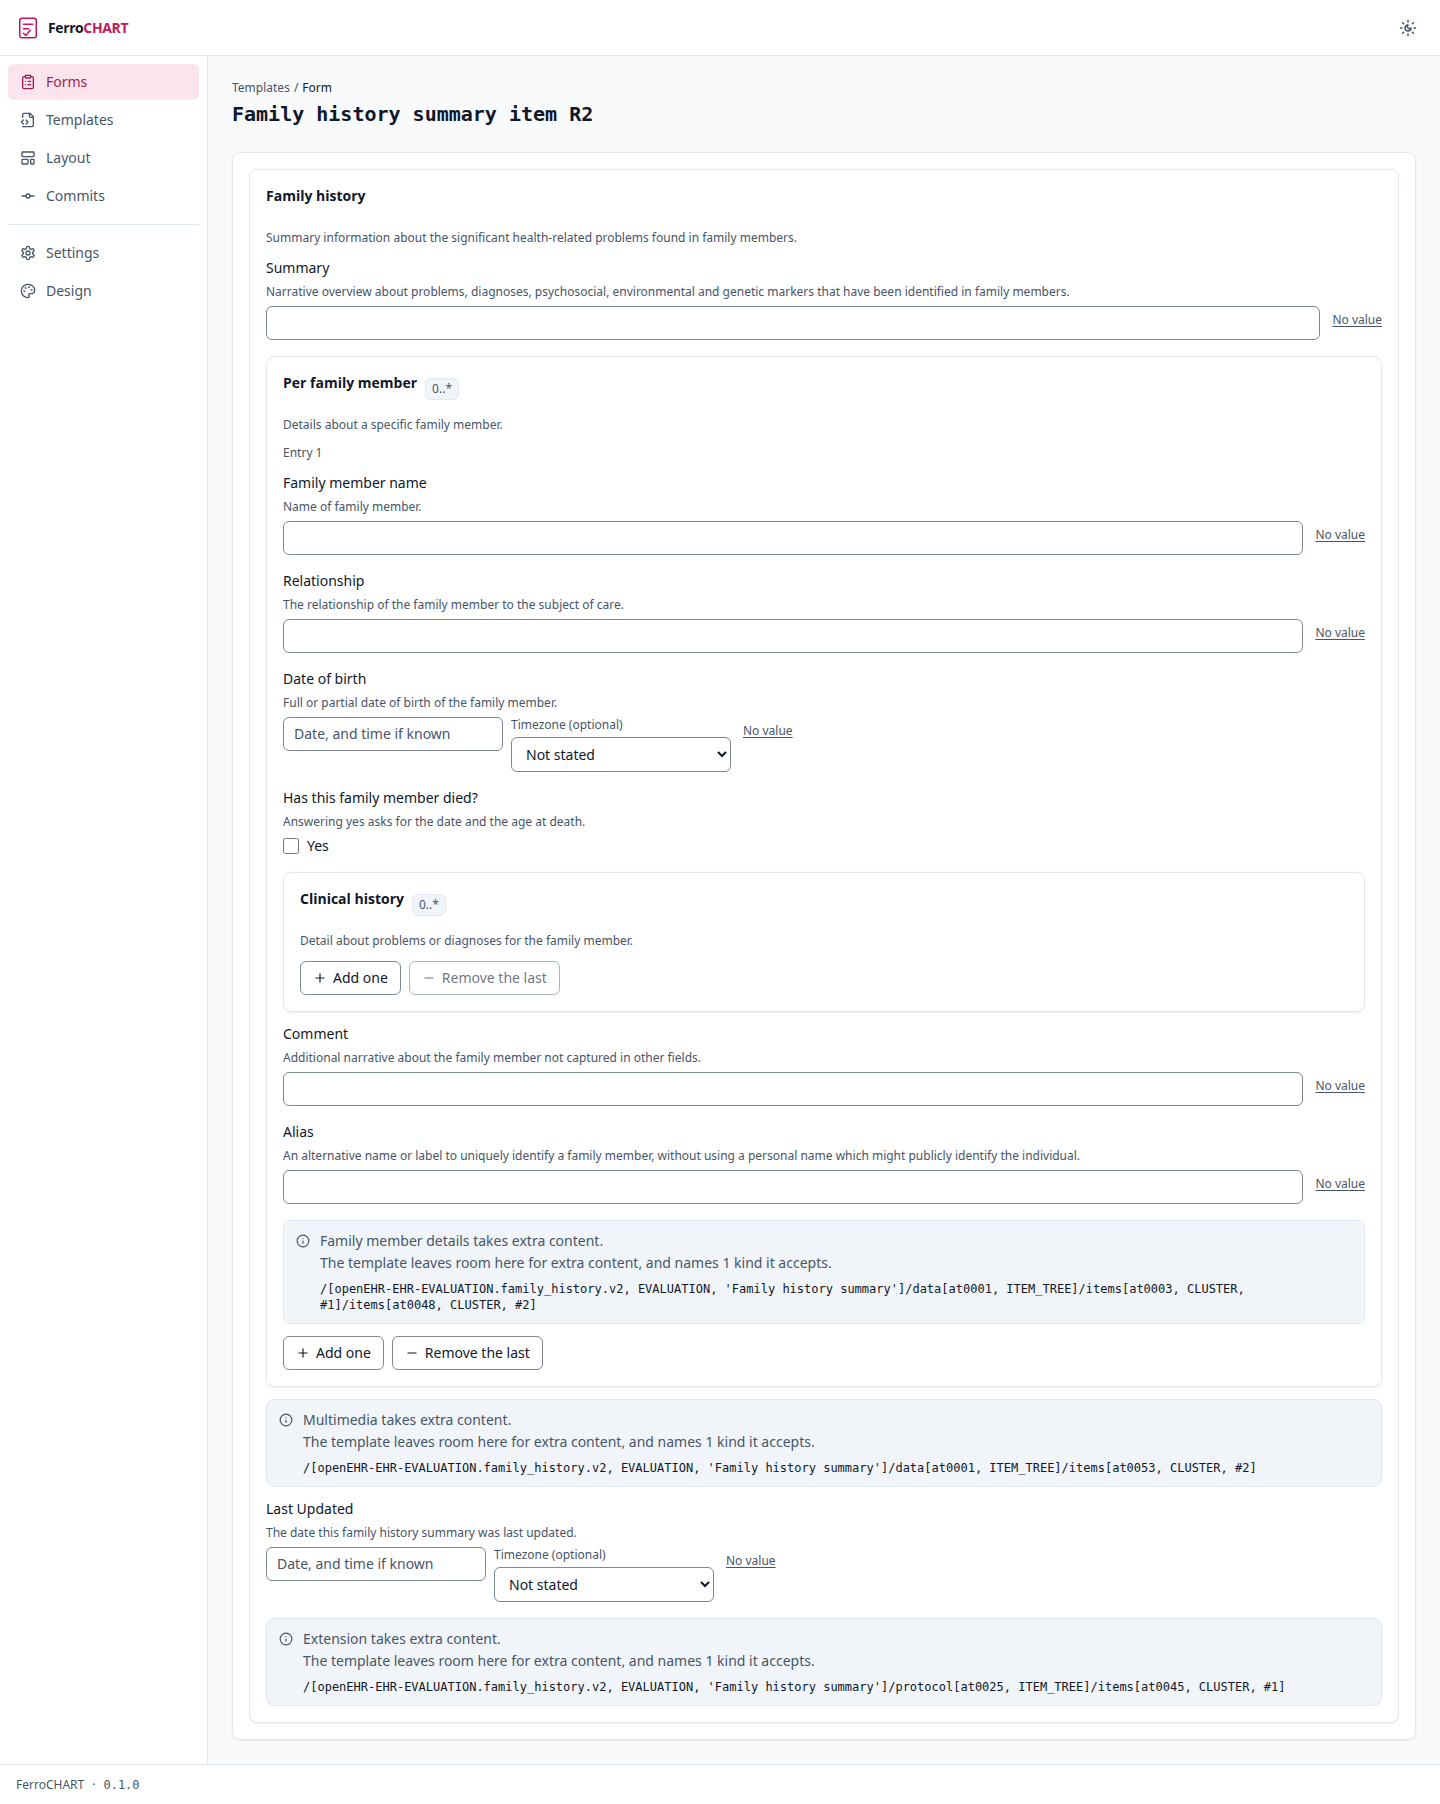
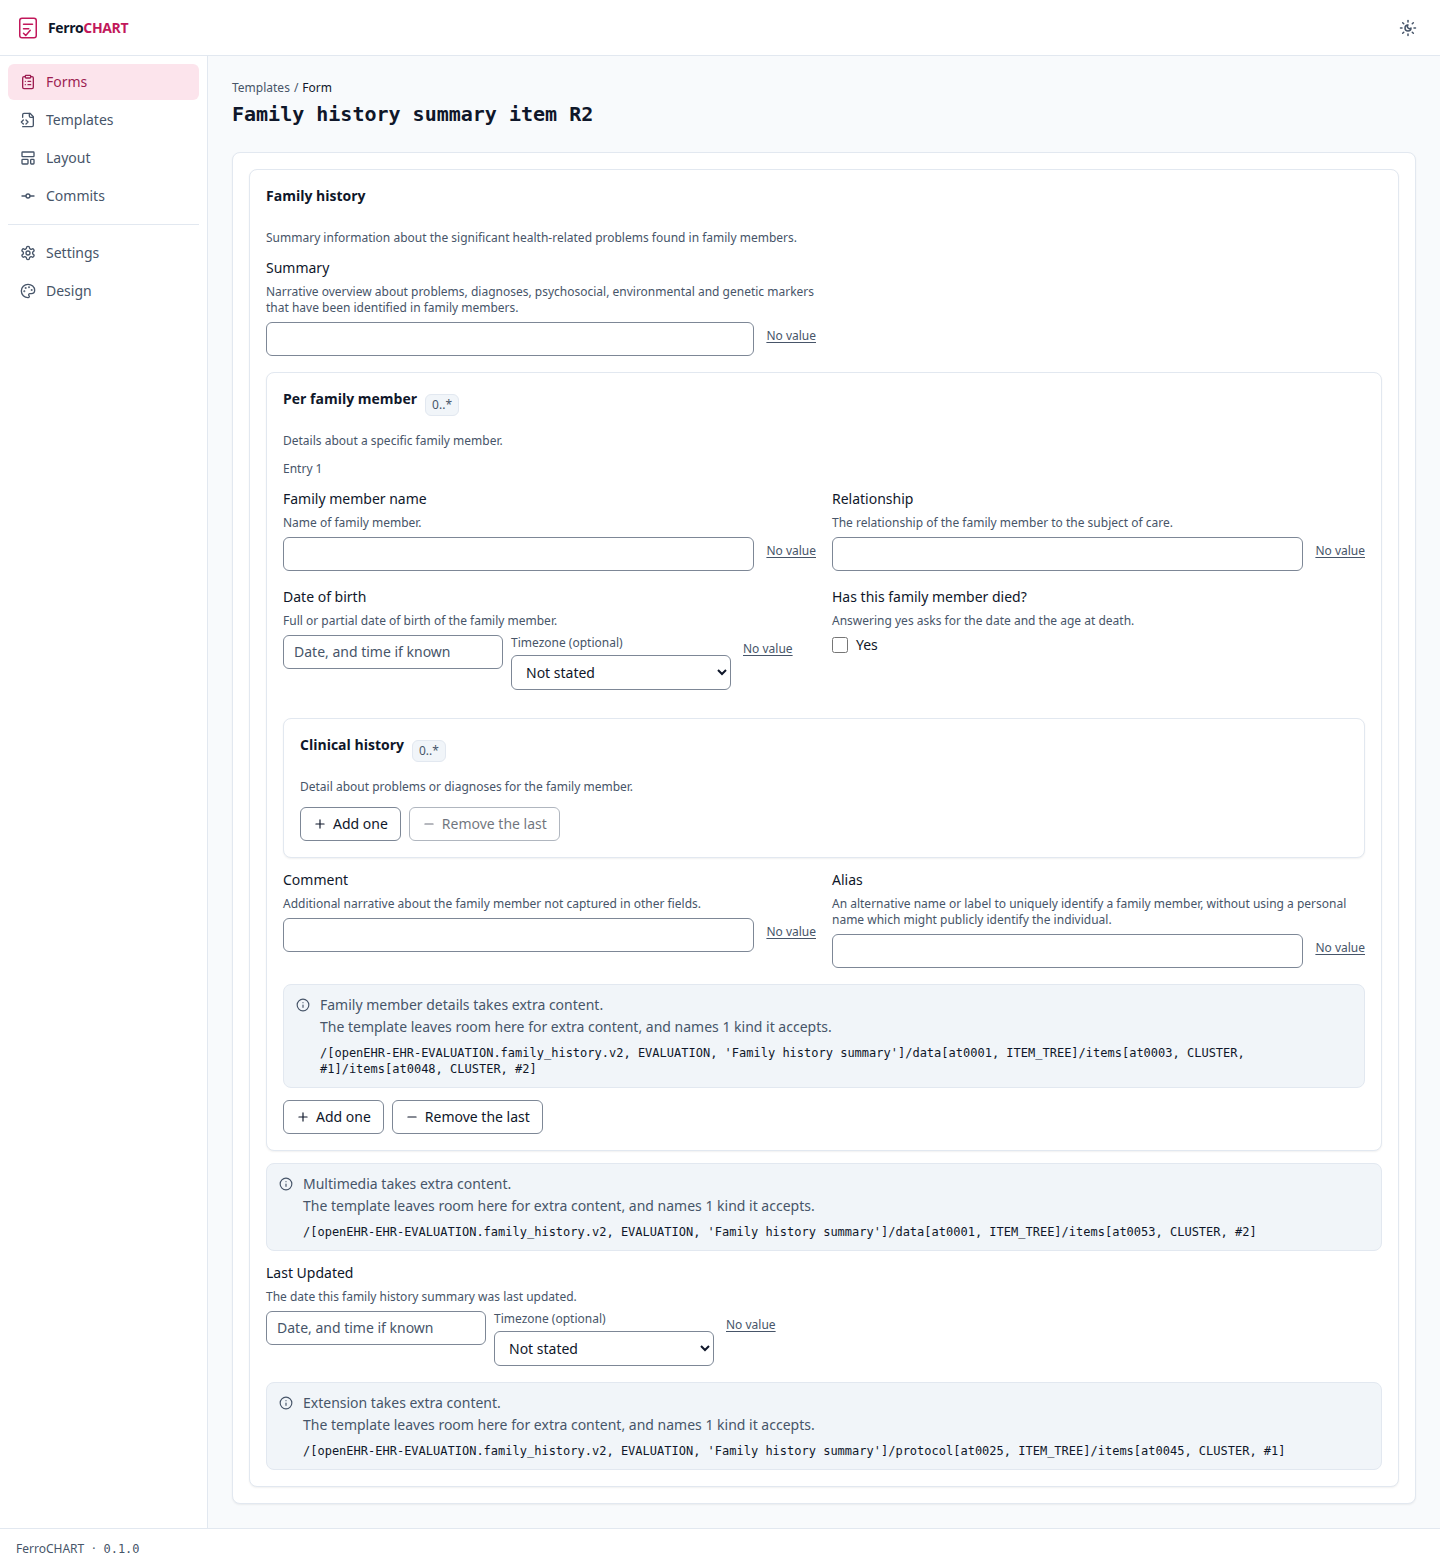
fix(renderer): short questions share a line, and a date keeps its width
A group lays its items on a two-column grid from the medium breakpoint up.
Most kinds draw one input and share a line; an attachment, a parsable body, a
choice, an interval and an identifier keep the row, because each of them draws
a control inside a control or four boxes of its own. No specification governs
this: our own design, and it is a different question from the cap on how wide
one control may run.

Restructuring contents() for it also fixed a smaller thing by construction: a
plumbing node's items now join the grid of the group above it rather than
starting a stack of their own, which is what "the group's contents are drawn
where the group would have been" was always supposed to mean.

Looking at the result found a second defect. A date collects no timezone, and
the temporal control drew its two-column grid anyway, so the empty half cut
the value's own box down to about 210 pixels and the placeholder read "Year,
then month and day if kn". The grid is one column where there is no zone to
put in the second.

Measured from the capture, both committed corpus forms are now well under half
what they were when the issue was filed: family history 4190 to 1568, alcohol
consumption 3934 to 2143. The book's screenshots are retaken and its text no
longer says the form screen decides no layout of its own, which stopped being
true when the overlay landed.

Closes #190

diff --git a/app/ferrochart-renderer/src/control/group.rs b/app/ferrochart-renderer/src/control/group.rs
@@ -14,6 +14,7 @@
 //! behind would commit a document they cannot see.
 
 use ferrochart_form::definition::FormDefinition;
+use ferrochart_form::field::FieldKind;
 use ferrochart_form::group::{FormGroup, FormItem, GroupShape};
 use ferrochart_form::ids::LanguageTag;
 use ferrochart_form::key::NodeKey;
@@ -117,7 +118,7 @@ pub(crate) fn GroupView(
                                     {format!("Entry {}", occurrence.saturating_add(1))}
                                 </p>
                             </Show>
-                            {contents(&group, state, &inside, &language)}
+                            {laid_out(&group, state, &inside, &language)}
                         </div>
                     }
                 })
@@ -238,6 +239,63 @@ fn ranked(laid: &Laid, item: &FormItem, index: usize) -> u32 {
         .unwrap_or_else(|| u32::try_from(index).unwrap_or(u32::MAX))
 }
 
+/// Everything one occurrence of a group holds, laid out on its grid.
+///
+/// The grid is two columns from the medium breakpoint up and one below it. A
+/// question with a short answer takes one column and everything else takes the
+/// row, so a form of dates and counts reads across as well as down instead of
+/// running several screens (issue #190). No specification governs this: our
+/// own design.
+fn laid_out(group: &FormGroup, state: FormState, inside: &Path, language: &LanguageTag) -> AnyView {
+    let cells: Vec<_> = contents(group, state, inside, language)
+        .into_iter()
+        .map(|item| {
+            let width = if item.narrow { "" } else { "md:col-span-2" };
+            view! { <div class=format!("min-w-0 {width}")>{item.view}</div> }
+        })
+        .collect();
+    view! { <div class="grid grid-cols-1 items-start gap-x-4 gap-y-3 md:grid-cols-2">{cells}</div> }
+        .into_any()
+}
+
+/// One item of a group, and how much of the row it takes.
+struct Drawn {
+    /// Whether the item is a short answer that can share a line.
+    narrow: bool,
+    /// The item.
+    view: AnyView,
+}
+
+impl Drawn {
+    /// An item that takes the whole row: a nested card, a hole, or a control
+    /// whose answer needs the width.
+    fn wide(view: AnyView) -> Self {
+        Self {
+            narrow: false,
+            view,
+        }
+    }
+}
+
+/// Whether a field's answer is short enough to share a line.
+///
+/// No specification governs this: our own design, and it is a different
+/// question from [`crate::control::field`]'s cap on how wide one control may
+/// run. Most kinds draw one input and share, so the list is what needs the
+/// row: an attachment and a parsable body, a choice and an interval because
+/// each draws a control inside a control, and an identifier because it draws
+/// four boxes of its own.
+const fn shares_a_line(kind: &FieldKind) -> bool {
+    !matches!(
+        *kind,
+        FieldKind::Multimedia(_)
+            | FieldKind::Parsable(_)
+            | FieldKind::Choice(_)
+            | FieldKind::Interval(_)
+            | FieldKind::Identifier(_)
+    )
+}
+
 /// Everything one occurrence of a group holds: its items, then the holes the
 /// template left in it.
 fn contents(
@@ -245,7 +303,7 @@ fn contents(
     state: FormState,
     inside: &Path,
     language: &LanguageTag,
-) -> Vec<AnyView> {
+) -> Vec<Drawn> {
     let laid = Laid::from_context();
     let mut ordered: Vec<(u32, &FormItem)> = group
         .items
@@ -254,59 +312,76 @@ fn contents(
         .map(|(index, item)| (ranked(&laid, item, index), item))
         .collect();
     ordered.sort_by_key(|&(rank, _)| rank);
-    let mut drawn: Vec<AnyView> = ordered
-        .into_iter()
-        .map(|(_, item)| match *item {
+    let mut drawn = Vec::with_capacity(ordered.len());
+    for (_, item) in ordered {
+        match *item {
             FormItem::Group(ref nested) if is_plumbing(nested) => {
-                // A plumbing node draws nothing of its own, so a rule on it
-                // governs everything it holds.
-                gated(&laid, &nested.key, state, inside, {
+                // A plumbing node draws nothing of its own, so its items join
+                // this group's grid rather than starting one of their own, and
+                // a rule on it governs every one of them.
+                if laid.rules(&nested.key) {
+                    let key = nested.key.clone();
+                    drawn.push(Drawn::wide(gated(&laid, &key, state, inside, {
+                        let nested = (**nested).clone();
+                        let inside = inside.clone();
+                        let language = language.clone();
+                        move || laid_out(&nested, state, &inside, &language)
+                    })));
+                } else {
+                    drawn.extend(contents(nested, state, inside, language));
+                }
+            }
+            FormItem::Group(ref nested) => {
+                drawn.push(Drawn::wide(gated(&laid, &nested.key, state, inside, {
                     let nested = (**nested).clone();
                     let inside = inside.clone();
                     let language = language.clone();
-                    move || contents(&nested, state, &inside, &language).into_any()
-                })
+                    move || {
+                        view! {
+                            <GroupView
+                                group=nested.clone()
+                                state=state
+                                path=inside.clone()
+                                language=language.clone()
+                            />
+                        }
+                        .into_any()
+                    }
+                })));
             }
-            FormItem::Group(ref nested) => gated(&laid, &nested.key, state, inside, {
-                let nested = (**nested).clone();
-                let inside = inside.clone();
-                let language = language.clone();
-                move || {
-                    view! {
-                        <GroupView
-                            group=nested.clone()
-                            state=state
-                            path=inside.clone()
-                            language=language.clone()
-                        />
+            FormItem::Field(ref field) => {
+                let narrow = shares_a_line(&field.kind);
+                let view = gated(&laid, &field.key, state, inside, {
+                    let field = (**field).clone();
+                    let inside = inside.clone();
+                    let language = language.clone();
+                    move || {
+                        view! {
+                            <FieldView
+                                field=field.clone()
+                                state=state
+                                path=inside.clone()
+                                language=language.clone()
+                            />
+                        }
+                        .into_any()
                     }
-                    .into_any()
-                }
-            }),
-            FormItem::Field(ref field) => gated(&laid, &field.key, state, inside, {
-                let field = (**field).clone();
-                let inside = inside.clone();
-                let language = language.clone();
-                move || {
-                    view! {
-                        <FieldView
-                            field=field.clone()
-                            state=state
-                            path=inside.clone()
-                            language=language.clone()
-                        />
-                    }
-                    .into_any()
-                }
-            }),
+                });
+                drawn.push(Drawn { narrow, view });
+            }
             // `FormItem` is `#[non_exhaustive]`, so the compiler asks for
             // this arm.
-            _ => view! { <Notice tone=Tone::Warn title="This renderer does not know this kind of item." /> }
-            .into_any(),
-        })
-        .collect();
+            _ => drawn.push(Drawn::wide(
+                view! { <Notice tone=Tone::Warn title="This renderer does not know this kind of item." /> }
+                .into_any(),
+            )),
+        }
+    }
     drawn.extend(group.undetermined.iter().map(|content| {
-        view! { <UndeterminedView content=content.clone() language=language.clone() /> }.into_any()
+        Drawn::wide(
+            view! { <UndeterminedView content=content.clone() language=language.clone() /> }
+                .into_any(),
+        )
     }));
     drawn
 }

diff --git a/app/ferrochart-renderer/src/control/temporal.rs b/app/ferrochart-renderer/src/control/temporal.rs
@@ -442,8 +442,17 @@ pub(crate) fn TemporalControl(
     // reads changes.
     let placeholder = native.is_none().then(|| asked_for(parts, shape));
 
+    // A date collects no timezone, so the grid it used to draw kept an empty
+    // half beside it and cut the value's own box down to the other half. The
+    // placeholder read "Year, then month and day if kn" (issue #190).
+    let columns = if offers_zone {
+        "grid gap-2 sm:grid-cols-2"
+    } else {
+        "grid gap-2"
+    };
+
     view! {
-        <div class="grid gap-2 sm:grid-cols-2">
+        <div class=columns>
             <div>
                 <input
                     id=slot.id.clone()

diff --git a/website/book/src/operate/renderer.md b/website/book/src/operate/renderer.md
@@ -47,8 +47,10 @@ naming the file, so a template listed here is a template that became a form.
 
 ## A form
 
-The screen a clinician works on. Field order is template order and grouping is
-the Reference Model tree, so this screen decides no layout of its own.
+The screen a clinician works on. What the template admits comes from the
+template; how the questions are ordered, named and revealed comes from the
+layout a person authored over it, where the server serves one. A deployment
+with no layout gets template order and the Reference Model tree.
 
 ![A form compiled from an operational template, with its groups and controls](img/renderer/form-family-history-summary-item-r2.png)
 
@@ -59,16 +61,17 @@ its description, and the way to add one. openEHR AM Release-2.3.0
 `AOM1.4.html` section 4.3.6 makes `occurrences` the count a node may appear
 in, so a lower bound of zero is the template saying none of that section is a
 complete answer. The battery opens one before it takes the picture, which is
-why the form below is longer than the one a reader first meets.
+why the pictures show a form with a family member in it.
 
-Each group is a card headed by the label the template gave it. A group whose
-occurrences allow more than one carries its bound as a badge and an add and
-remove pair, and it opens showing the occurrences the template requires. Each
-field draws the control its Reference Model type and its constraint call for:
-a quantity gets a magnitude and the units the template permits, a coded text
-gets a selection over its value set, a date gets the precision the template
-allows. A mandatory field is marked. Content the template left undetermined is
-drawn as a visible hole at the top of the form rather than dropped.
+Each group is a card headed by the name a person gave it, or by the one the
+template gave it. A group whose occurrences allow more than one carries its
+bound as a badge and an add and remove pair, and it opens showing the
+occurrences the template requires. Each field draws the control its Reference
+Model type and its constraint call for: a quantity gets a magnitude and the
+units the template permits, a coded text gets a selection over its value set,
+a date gets the precision the template allows. A mandatory field is marked.
+Content the template left undetermined is drawn as a visible hole rather than
+dropped.
 
 A field carries a value or a reason there is none, and never both: openEHR RM
 Release-1.1.0 `data_structures.html` section 5.2.3 gives `ELEMENT` no state
@@ -77,12 +80,23 @@ that holds the two together. So a field draws its value control and a quiet
 sitting under it. Answering "unknown" is rare and entering a value is the
 reason the form is open, so only one of them takes the width.
 
-Two strings in that picture read oddly, and both are the template's own. The
-archetype's structure node carries the text "Tree" and the description
-"@ internal @", and the compiler passes each through as the group's label and
-its help, because nothing here may invent a label the template did not state.
-Giving that node a name a clinician recognizes is exactly the work the layout
-overlay exists for.
+A question with a short answer takes half the row from the medium breakpoint
+up, so a form of dates and counts reads across as well as down instead of
+running several screens. Prose, an attachment, a choice and an interval keep
+the row, because each of them uses the width.
+
+The form above is laid out. Its template asks "Deceased?" as a plain question
+in the middle of nine others; the layout renames it "Has this family member
+died?", moves the alias out of second place, and hides the date and the age at
+death until the answer is yes. None of that is in the template, and none of it
+could be: openEHR publishes no form artefact, so field order, labels, help
+text, defaults and conditional visibility are all authored. The layout is
+stored separately and keyed by node, which is what lets a template revision
+replay it rather than destroy it.
+
+`FERROCHART_OVERLAYS` is where the server reads them from
+([Configuration](configuration.md)). The surface a person authors one **on**
+is not built yet; the one this book shows was written by hand.
 
 ![A second form, over a different operational template](img/renderer/form-alcohol-consumption-summary-item-r2.png)
 

diff --git a/CHANGELOG.md b/CHANGELOG.md
@@ -23,6 +23,14 @@ the build order.
 
 ### Added
 
+- A group lays its items on a two-column grid from the medium breakpoint up,
+  so a form of dates and counts reads across as well as down (#190). Most
+  kinds draw one input and share a line; an attachment, a parsable body, a
+  choice, an interval and an identifier keep the row, because each draws a
+  control inside a control or four boxes of its own. Measured from the
+  capture, the two committed corpus forms are 1568 and 2143 pixels tall,
+  against 4190 and 3934 when the issue was filed.
+
 - The renderer reads the layout a person authored, which is half the product
   and until now the browser read none of it (#201). A form is drawn in the
   order they put its items in, under the names and the help text they wrote
@@ -221,6 +229,11 @@ the build order.
   takes." (#178).
 
 ### Fixed
+
+- A date field spent half its width on a timezone it does not collect (#190).
+  The temporal control drew a two-column grid whatever the field admits, so a
+  date got one column of it and its placeholder read "Year, then month and day
+  if kn". The grid is one column where there is no zone to put in the second.
 
 - A field the template fixed drew the sentence "The template fixed this
   value" instead of the value, and one the template also said may be absent
